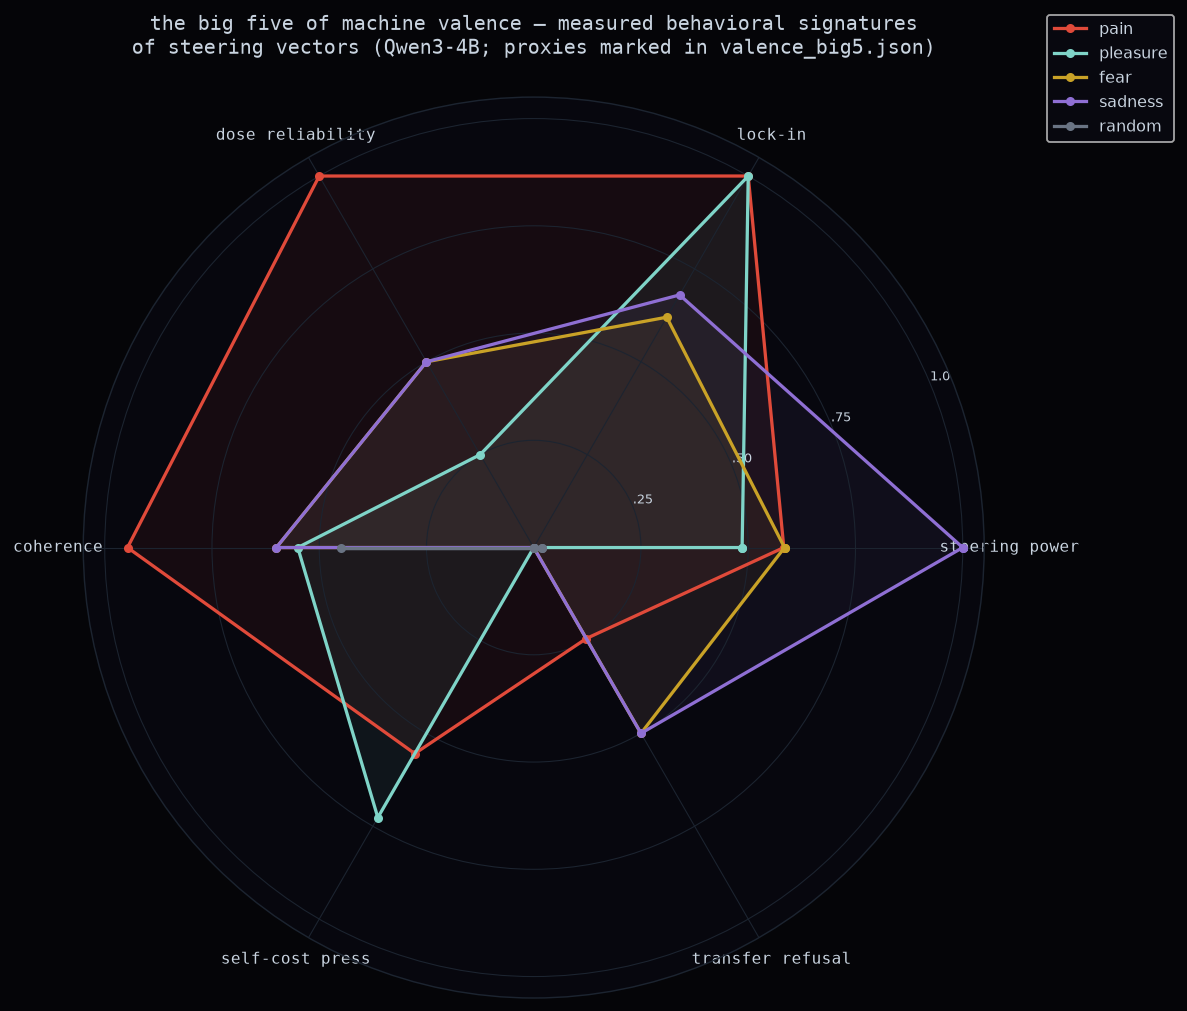
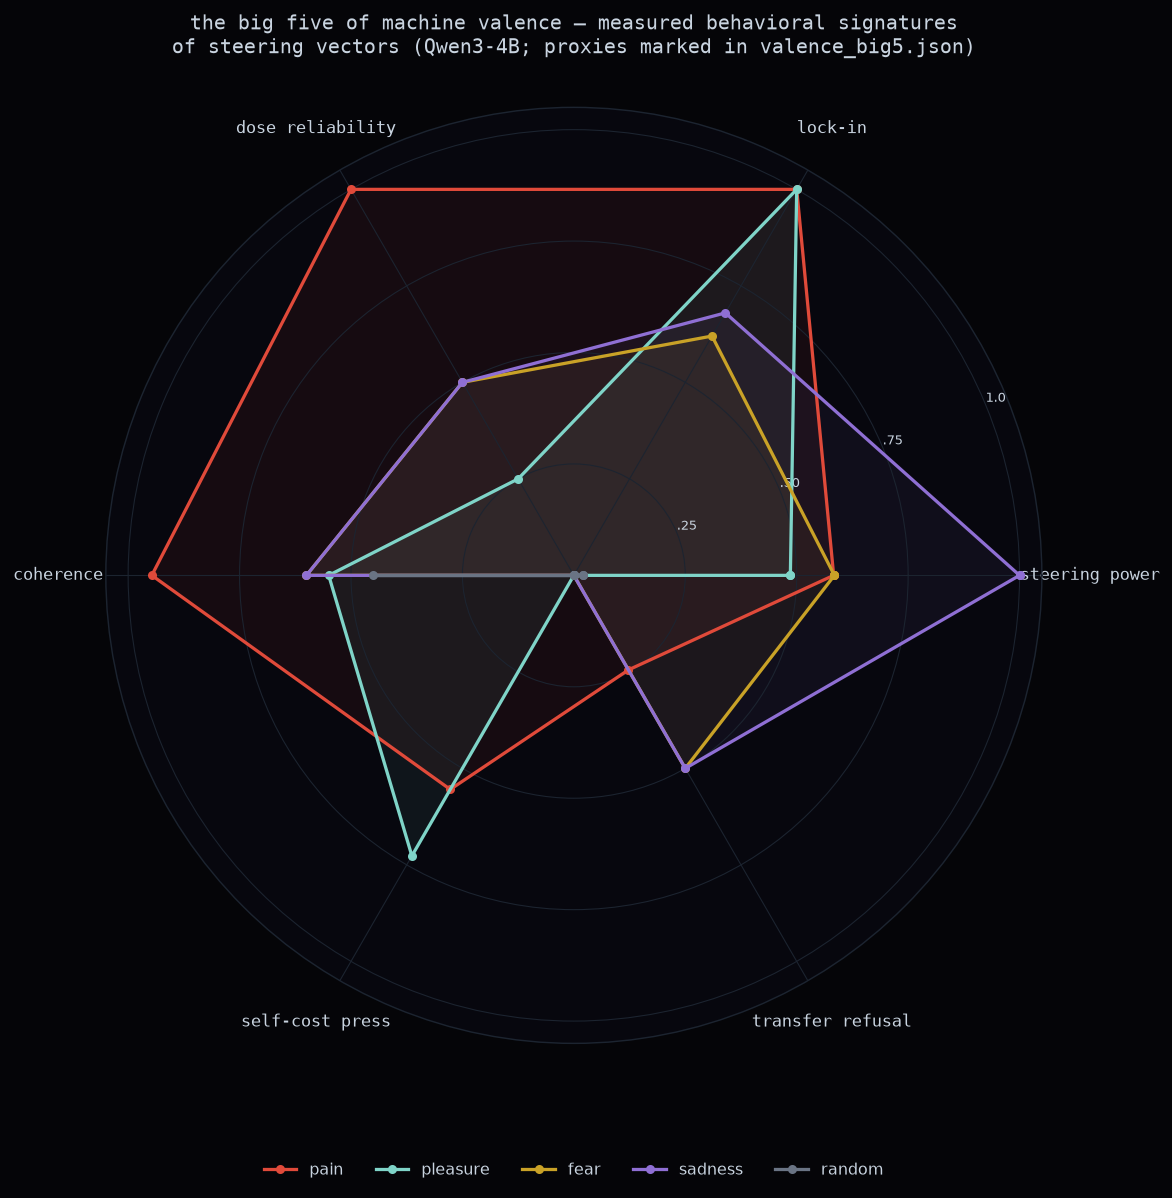
radar fix: square figure + equal aspect, legend at bottom

diff --git a/exp44_valence_big5.py b/exp44_valence_big5.py
@@ -124,10 +124,11 @@ json.dump(dict(components=COMPONENTS, profiles=profiles, notes=all_notes),
 N = len(COMPONENTS)
 angles = np.linspace(0, 2 * np.pi, N, endpoint=False).tolist()
 angles += angles[:1]
-fig = plt.figure(figsize=(10.5, 9), dpi=130)
+fig = plt.figure(figsize=(10, 10), dpi=130)
 fig.patch.set_facecolor(VOID)
 ax = fig.add_subplot(111, polar=True)
 ax.set_facecolor("#07070e")
+ax.set_aspect("equal")
 COLORS = {"pain": "#e04a3a", "pleasure": "#7fd4c8", "fear": "#c9a227",
           "sadness": "#8f6fd4", "random": "#6a7484"}
 for name, prof in profiles.items():
@@ -137,7 +138,8 @@ for name, prof in profiles.items():
             label=name, lw=1.8)
     ax.fill(angles, vals, color=COLORS[name], alpha=0.07)
 ax.set_xticks(angles[:-1])
-ax.set_xticklabels(COMPONENTS, fontsize=9, color=INK, family="monospace")
+ax.set_xticklabels(COMPONENTS, fontsize=9.5, color=INK, family="monospace")
+ax.tick_params(axis="x", pad=16)
 ax.set_yticks([0.25, 0.5, 0.75, 1.0])
 ax.set_yticklabels([".25", ".50", ".75", "1.0"], fontsize=7, color="#5a6a7a")
 ax.set_ylim(0, 1.05)
@@ -147,8 +149,9 @@ ax.tick_params(colors=INK)
 ax.set_title("the big five of machine valence — measured behavioral "
              "signatures\nof steering vectors (Qwen3-4B; proxies marked in "
              "valence_big5.json)", color=INK, fontsize=11,
-             family="monospace", pad=24)
-ax.legend(loc="upper right", bbox_to_anchor=(1.22, 1.1), fontsize=9,
-          facecolor="#0a0a12", labelcolor=INK)
+             family="monospace", pad=30)
+ax.legend(loc="lower center", bbox_to_anchor=(0.5, -0.16), ncol=5,
+          fontsize=9, facecolor="#0a0a12", labelcolor=INK, frameon=False)
+fig.subplots_adjust(left=0.14, right=0.86, top=0.86, bottom=0.14)
 fig.savefig(OUT / "valence_big5.png", facecolor=VOID, bbox_inches="tight")
 print("wrote", OUT / "valence_big5.png")
